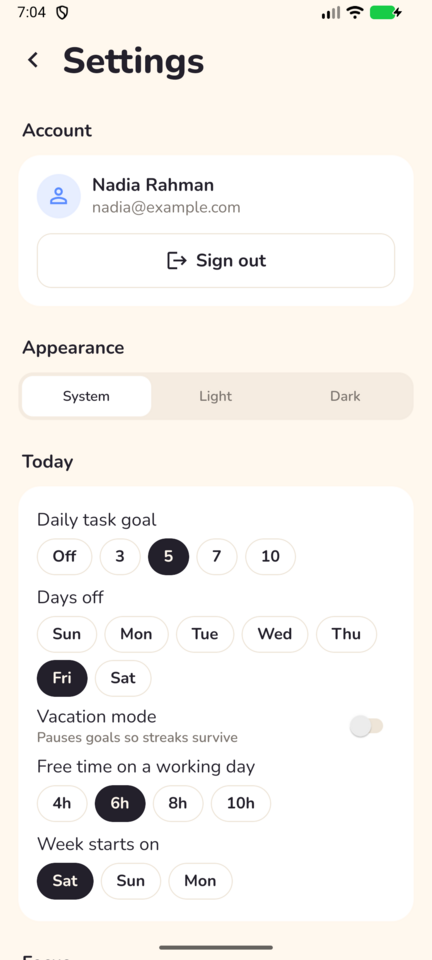
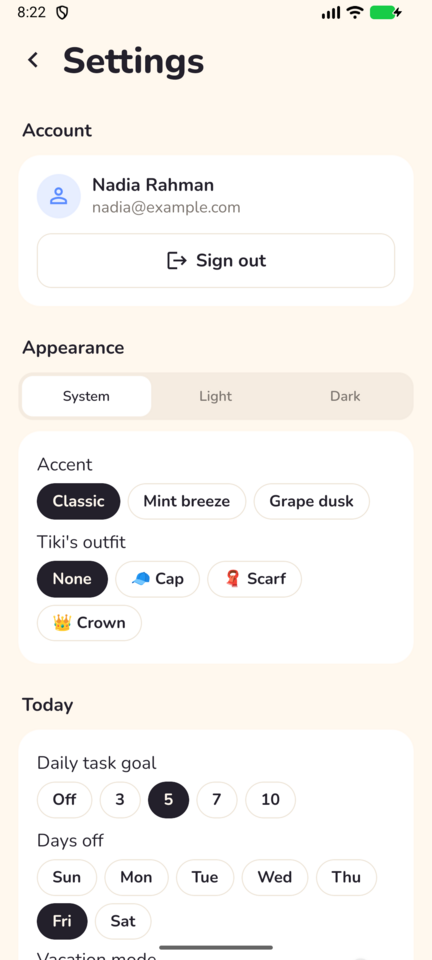
docs: README and screenshots without sparks, levels or rewards

diff --git a/README.md b/README.md
@@ -110,13 +110,14 @@ things you buy often, and buttons to add a task, log an expense or start focusin
   a shopping list and a spending calendar.
 - Foreign-currency income converted at the rate you received it.
 
-**Review and rewards**
+**Review**
 - Daily shutdown, weekly and monthly reviews, reports, a dashboard per area of life, a
   payday plan and a subscription spotter.
-- Sparks, levels and unlockable rewards (Tiki outfits) for finishing things.
+- Streaks for your daily task goal and for logging spending the same day, with freeze
+  days so one missed day doesn't reset them.
 - Soft sounds and vibration when you finish something: a chime for a task or habit, a
   bell when focus ends, and confetti with a celebration for all three top tasks, a
-  finished routine, a reached goal or a new level. They mix with your music, stay quiet
+  finished routine or a reached goal. They mix with your music, stay quiet
   on silent, and each can be switched off in Settings.
 
 **Tiki, the assistant** (needs an OpenAI key on the server)
@@ -129,6 +130,7 @@ things you buy often, and buttons to add a task, log an expense or start focusin
 - Google sign-in; one database per user, so nobody can reach anyone else's data.
 - Fingerprint or face lock, a one-tap "hide amounts" switch, and a full JSON export.
 - Signing out wipes that user's data from the phone.
+- Light, dark or system theme, an accent tint, and an outfit for Tiki.
 
 ## How it works
 
